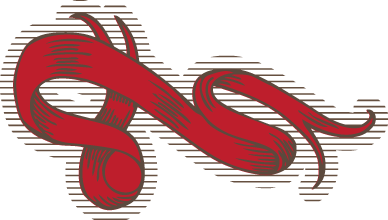
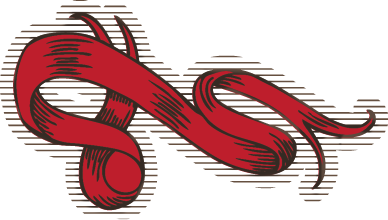
unifying colors

diff --git a/css/style.css b/css/style.css
@@ -48,13 +48,45 @@ body {
 
 #navigation .primary-links a,
 #block-menu-secondary-links li a {
-	display:inline-block;
-	margin:0px 20px 0px 20px;
 	font-family: 'IM Fell English', serif;
 	text-transform:capitalize;
 	font-size:24pt;
 	color:white;
-	text-shadow: 0px 0px 4px #333;
+	text-shadow: 0px 0px 4px #333;	
+}
+
+#navigation .primary-links a {
+	display:inline-block;
+	padding:20px;
+	position:relative;
+}
+
+#navigation .primary-links a:hover,
+#block-menu-secondary-links li a:hover {
+	top:-1px;
+}
+#navigation .primary-links a:hover,
+#block-menu-secondary-links li a:hover {
+	top:1px;
+	left:1px;
+}
+
+#navigation .primary-links a:active {
+	top:1px;
+	left:1px;
+	background: #7f151e; /* Old browsers */
+	/* IE9 SVG, needs conditional override of 'filter' to 'none' */
[1 lines of base64/hex data omitted]
+	background: -moz-linear-gradient(top,  #7f151e 16%, #c0202f 100%); /* FF3.6+ */
+	background: -webkit-gradient(linear, left top, left bottom, color-stop(16%,#7f151e), color-stop(100%,#c0202f)); /* Chrome,Safari4+ */
+	background: -webkit-linear-gradient(top,  #7f151e 16%,#c0202f 100%); /* Chrome10+,Safari5.1+ */
+	background: -o-linear-gradient(top,  #7f151e 16%,#c0202f 100%); /* Opera 11.10+ */
+	background: -ms-linear-gradient(top,  #7f151e 16%,#c0202f 100%); /* IE10+ */
+	background: linear-gradient(top,  #7f151e 16%,#c0202f 100%); /* W3C */
+	filter: progid:DXImageTransform.Microsoft.gradient( startColorstr='#7f151e', endColorstr='#c0202f',GradientType=0 ); /* IE6-8 */
+	-webkit-box-shadow:  inset 0px 0px 20px 0px rgba(0, 0, 0, 0.5), 0px 0px 20px 0px rgba(0, 0, 0, 0.5);
+	-moz-box-shadow: inset 0px 0px 20px 0px rgba(0, 0, 0, 0.5), 0px 0px 20px 0px rgba(0, 0, 0, 0.5);
+	box-shadow: inset 0px 0px 20px 0px rgba(0, 0, 0, 0.5), 0px 0px 20px 0px rgba(0, 0, 0, 0.5);
 }
 
 #block-menu-secondary-links li {
@@ -99,7 +131,13 @@ body {
 	padding-top:83px !important;
 	padding-left:32px !important;	
 }
-#block-menu-secondary-links .map {
+#block-menu-secondary-links .map,
+#block-menu-secondary-links .route,
+#block-menu-secondary-links .activity-map,
+#block-menu-secondary-links .route-map,
+#block-menu-secondary-links .world-map,
+#block-menu-secondary-links .post-map,
+#block-menu-secondary-links .blog-map {
 	position:relative;
 	top:-108px;
 	background-image:url('../images/map.png');
@@ -107,7 +145,13 @@ body {
 	height:179px;
 	width:220px;
 }
-#block-menu-secondary-links .map a {
+#block-menu-secondary-links .map a,
+#block-menu-secondary-links .route a,
+#block-menu-secondary-links .activity-map a,
+#block-menu-secondary-links .route-map a,
+#block-menu-secondary-links .world-map a,
+#block-menu-secondary-links .post-map a,
+#block-menu-secondary-links .blog-map a {
 	margin:0px;
 	height:117px;
 	width:144px;
@@ -117,7 +161,7 @@ body {
 
 /* BUTTON CLASS */
 #navigation .primary-links {
-border: 2px solid black;	
+border: 2px solid #352a23;	
 	-webkit-border-radius: 5px;
 	-moz-border-radius: 5px;
 	border-radius: 5px;
@@ -128,20 +172,21 @@ border: 2px solid black;
 
 
 
-	background: #ff3019; /* Old browsers */
-	background: -moz-linear-gradient(top,  #ff3019 0%, #cf0404 100%); /* FF3.6+ */
-	background: -webkit-gradient(linear, left top, left bottom, color-stop(0%,#ff3019), color-stop(100%,#cf0404)); /* Chrome,Safari4+ */
-	background: -webkit-linear-gradient(top,  #ff3019 0%,#cf0404 100%); /* Chrome10+,Safari5.1+ */
-	background: -o-linear-gradient(top,  #ff3019 0%,#cf0404 100%); /* Opera 11.10+ */
-	background: -ms-linear-gradient(top,  #ff3019 0%,#cf0404 100%); /* IE10+ */
-	background: linear-gradient(top,  #ff3019 0%,#cf0404 100%); /* W3C */
-	filter: progid:DXImageTransform.Microsoft.gradient( startColorstr='#ff3019', endColorstr='#cf0404',GradientType=0 ); /* IE6-9 */
+background: #c0202f; /* Old browsers */
+background: -moz-linear-gradient(top,  #c0202f 0%, #7f151e 100%); /* FF3.6+ */
+background: -webkit-gradient(linear, left top, left bottom, color-stop(0%,#c0202f), color-stop(100%,#7f151e)); /* Chrome,Safari4+ */
+background: -webkit-linear-gradient(top,  #c0202f 0%,#7f151e 100%); /* Chrome10+,Safari5.1+ */
+background: -o-linear-gradient(top,  #c0202f 0%,#7f151e 100%); /* Opera 11.10+ */
+background: -ms-linear-gradient(top,  #c0202f 0%,#7f151e 100%); /* IE10+ */
+background: linear-gradient(top,  #c0202f 0%,#7f151e 100%); /* W3C */
+filter: progid:DXImageTransform.Microsoft.gradient( startColorstr='#c0202f', endColorstr='#7f151e',GradientType=0 ); /* IE6-9 */
+
 }
 
 .front #content .node,
 .not-front #content {
 
-	border: 2px solid black;
+	border: 2px solid #352a23;
 	-webkit-border-radius: 2px;
 	-moz-border-radius: 2px;
 	border-radius: 2px;
@@ -198,7 +243,7 @@ border: 2px solid black;
 	padding-bottom:26px;
 }
 #comments {
-	border: 1px solid black;
+	border: 1px solid #352a23;
 	margin: 20px;
 	padding: 20px;
 }
@@ -210,7 +255,7 @@ border: 2px solid black;
 	float: left;
 }
 .view-photos a img {
-	border: 1px solid black;
+	border: 1px solid #352a23;
 	padding: 2px;
 	margin: 26px 0px 0px 26px;
 	background-color:#ecd7b3;
@@ -219,7 +264,7 @@ border: 2px solid black;
 .field-field-blog-map {
 	float: right;
 	clear: right;
-	border: 1px solid black;
+	border: 1px solid #352a23;
 	padding: 2px;
 	margin-bottom: 10px;
 	background-color:#ecd7b3;
@@ -234,7 +279,7 @@ border: 2px solid black;
 }
 .field-field-images img {
 	padding: 2px;
-	border:1px solid black;
+	border:1px solid #352a23;
 	background-color:#ecd7b3;
 	margin-bottom:10px;
 }
@@ -242,7 +287,7 @@ border: 2px solid black;
 	float: right;
 	margin:0px 0px 10px 10px;
 	padding: 2px;
-	border:1px solid black;
+	border:1px solid #352a23;
 	background-color:#ecd7b3;
 }
 

diff --git a/css/navigation.css b/css/navigation.css
@@ -1,21 +1,8 @@
 /* $Id: navigation.css,v 1.1.2.11.2.8 2010/03/03 17:45:16 psynaptic Exp $ */
 
 #navigation .primary-links {
-   width:960px;
-   
    border: 2px solid #000000;
-
-background: #ff3019; /* Old browsers */
-background: -moz-linear-gradient(top,  #ff3019 0%, #cf0404 100%); /* FF3.6+ */
-background: -webkit-gradient(linear, left top, left bottom, color-stop(0%,#ff3019), color-stop(100%,#cf0404)); /* Chrome,Safari4+ */
-background: -webkit-linear-gradient(top,  #ff3019 0%,#cf0404 100%); /* Chrome10+,Safari5.1+ */
-background: -o-linear-gradient(top,  #ff3019 0%,#cf0404 100%); /* Opera 11.10+ */
-background: -ms-linear-gradient(top,  #ff3019 0%,#cf0404 100%); /* IE10+ */
-background: linear-gradient(top,  #ff3019 0%,#cf0404 100%); /* W3C */
-filter: progid:DXImageTransform.Microsoft.gradient( startColorstr='#ff3019', endColorstr='#cf0404',GradientType=0 ); /* IE6-9 */
-
-
-   padding: 12.5px 25px;
+   padding: 0;
    -webkit-border-radius: 5px;
    -moz-border-radius: 5px;
    border-radius: 5px;
@@ -23,7 +10,6 @@ filter: progid:DXImageTransform.Microsoft.gradient( startColorstr='#ff3019', end
    -moz-box-shadow: rgba(0,0,0,1) 0 1px 0;
    box-shadow: rgba(0,0,0,1) 0 1px 0;
    text-shadow: rgba(0,0,0,.4) 0 1px 0;
-   font-size: 2em;
    vertical-align: middle;
    }
 .button:hover {
